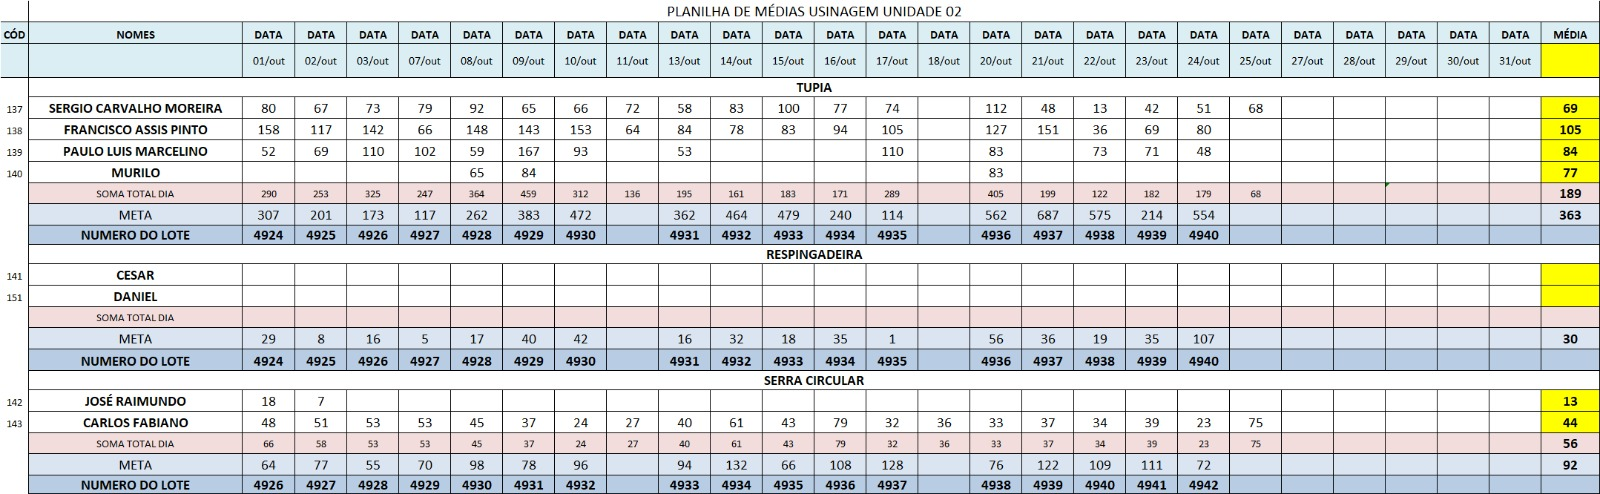
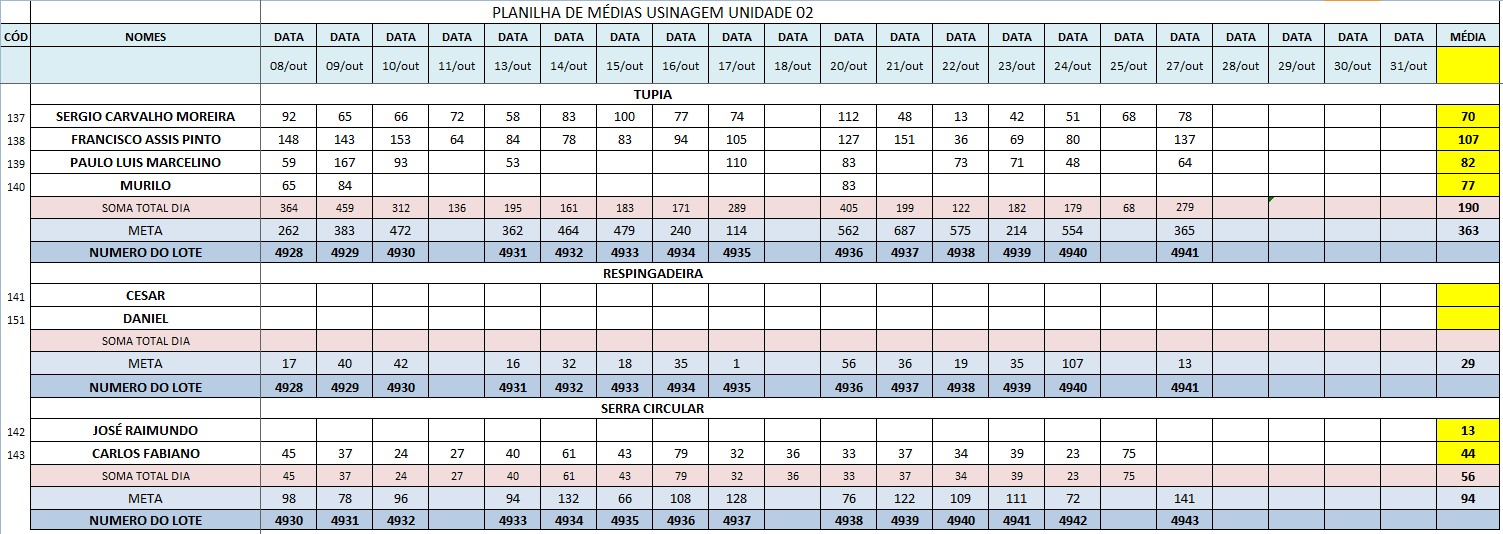
,,

Changed region(s): [[0.0, 0.0, 1.0, 1.0], [0.8876, 0.0, 0.9182, 0.0304]]

diff --git a/back__incial.js b/back__incial.js
@@ -1913,7 +1913,7 @@ const unidades = {
             { data: "22/10/2025", captura: ["capturas/Unidade 2/Usinagem/2025/10-OUTUBRO/CNC/22.jpeg"] },
             { data: "23/10/2025", captura: ["capturas/Unidade 2/Usinagem/2025/10-OUTUBRO/CNC/23.jpeg"] },
             { data: "24/10/2025", captura: ["capturas/Unidade 2/Usinagem/2025/10-OUTUBRO/CNC/24.jpeg"] },
-            { data: "25/10/2025", captura: [""] },
+            { data: "27/10/2025", captura: ["capturas/Unidade 2/Usinagem/2025/10-OUTUBRO/CNC/27.jpeg"] },
 
 
 
@@ -2202,7 +2202,7 @@ const unidades = {
             { data: "22/10/2025", captura: ["capturas/Unidade 2/Usinagem/2025/10-OUTUBRO/MONTAGEM US/22.jpeg", "capturas/Unidade 2/Usinagem/2025/10-OUTUBRO/ROLINHO/22.jpeg", "capturas/Unidade 2/Usinagem/2025/10-OUTUBRO/ROQUITE/22.jpeg", "capturas/Unidade 2/Usinagem/2025/10-OUTUBRO/MM/22.jpg", "capturas/Unidade 2/Usinagem/2025/10-OUTUBRO/USINAGEM/22.jpg"] },
             { data: "23/10/2025", captura: ["capturas/Unidade 2/Usinagem/2025/10-OUTUBRO/MONTAGEM US/23.jpeg", "capturas/Unidade 2/Usinagem/2025/10-OUTUBRO/ROLINHO/23.jpeg", "capturas/Unidade 2/Usinagem/2025/10-OUTUBRO/ROQUITE/23.jpeg", "capturas/Unidade 2/Usinagem/2025/10-OUTUBRO/MM/23.jpg", "capturas/Unidade 2/Usinagem/2025/10-OUTUBRO/USINAGEM/23.jpg"] },
             { data: "24/10/2025", captura: ["capturas/Unidade 2/Usinagem/2025/10-OUTUBRO/MONTAGEM US/24.jpeg", "capturas/Unidade 2/Usinagem/2025/10-OUTUBRO/ROLINHO/24.jpeg", "capturas/Unidade 2/Usinagem/2025/10-OUTUBRO/ROQUITE/24.jpeg", "capturas/Unidade 2/Usinagem/2025/10-OUTUBRO/MM/24.jpg", "capturas/Unidade 2/Usinagem/2025/10-OUTUBRO/USINAGEM/27.jpeg"] },
-
+            { data: "27/10/2025", captura: ["capturas/Unidade 2/Usinagem/2025/10-OUTUBRO/MONTAGEM US/27.jpeg", "capturas/Unidade 2/Usinagem/2025/10-OUTUBRO/ROLINHO/27.jpeg", "capturas/Unidade 2/Usinagem/2025/10-OUTUBRO/ROQUITE/27.jpeg", "capturas/Unidade 2/Usinagem/2025/10-OUTUBRO/MM/27.jpg", "capturas/Unidade 2/Usinagem/2025/10-OUTUBRO/USINAGEM/27.jpeg"] },
 
             
 
@@ -2704,7 +2704,7 @@ const unidades = {
             { data: "22/10/2025", captura: ["capturas/Unidade 3/Usinagem/2025/10-OUTUBRO/22.jpg"] }, 
             { data: "23/10/2025", captura: ["capturas/Unidade 3/Usinagem/2025/10-OUTUBRO/23.jpg"] }, 
             { data: "24/10/2025", captura: ["capturas/Unidade 3/Usinagem/2025/10-OUTUBRO/24.jpg"] },
-
+            { data: "27/10/2025", captura: ["capturas/Unidade 3/Usinagem/2025/10-OUTUBRO/27.jpg"] },
 
 
 
